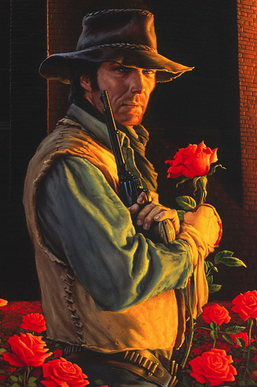
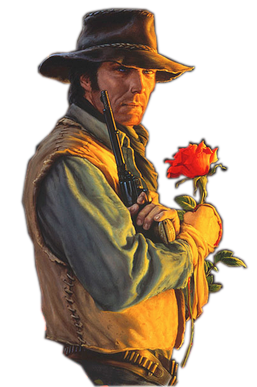
add new .png images with clear backgrounds

diff --git a/js/main.js b/js/main.js
@@ -1,7 +1,16 @@
+// function that loks to console if the "a key is pressed
 function checkKeyPressed(e) {
 	if (e.keyCode == "65") {
 		console.log("The 'a' key is pressed");
 	}
 }
-
+// listens for the a key being pressed 
 window.addEventListener("keydown", checkKeyPressed, false);
+
+
+
+function movePlayer(e) {
+	if (e.keyCode == "65"){
+		
+	}
+}
